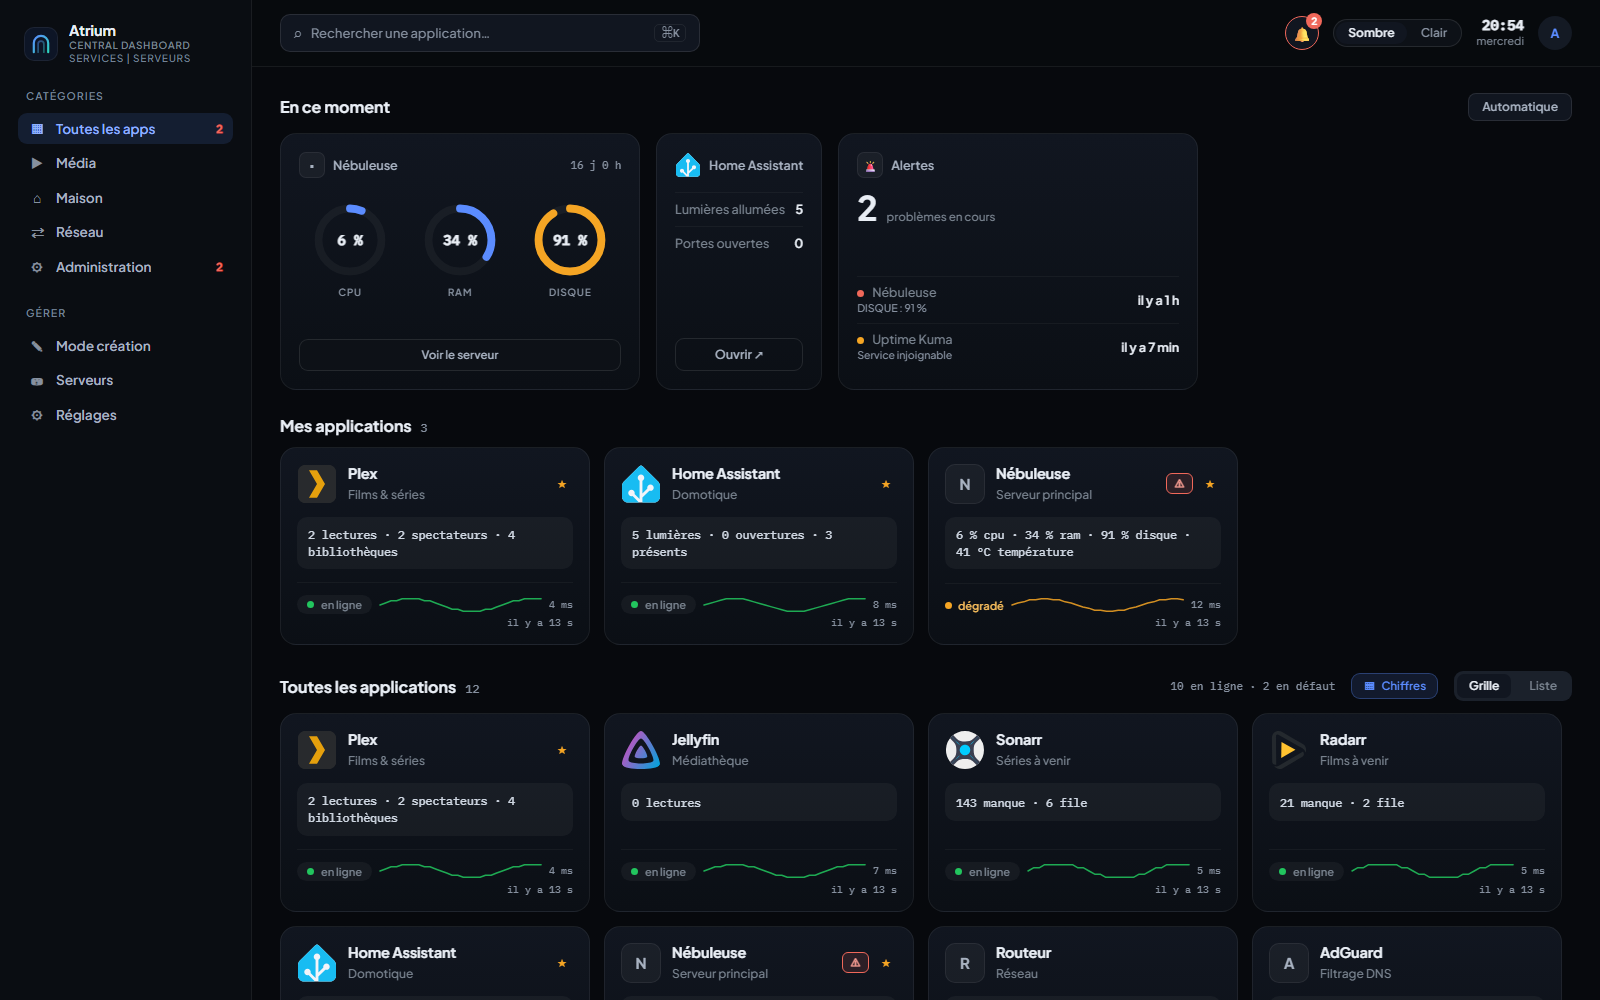
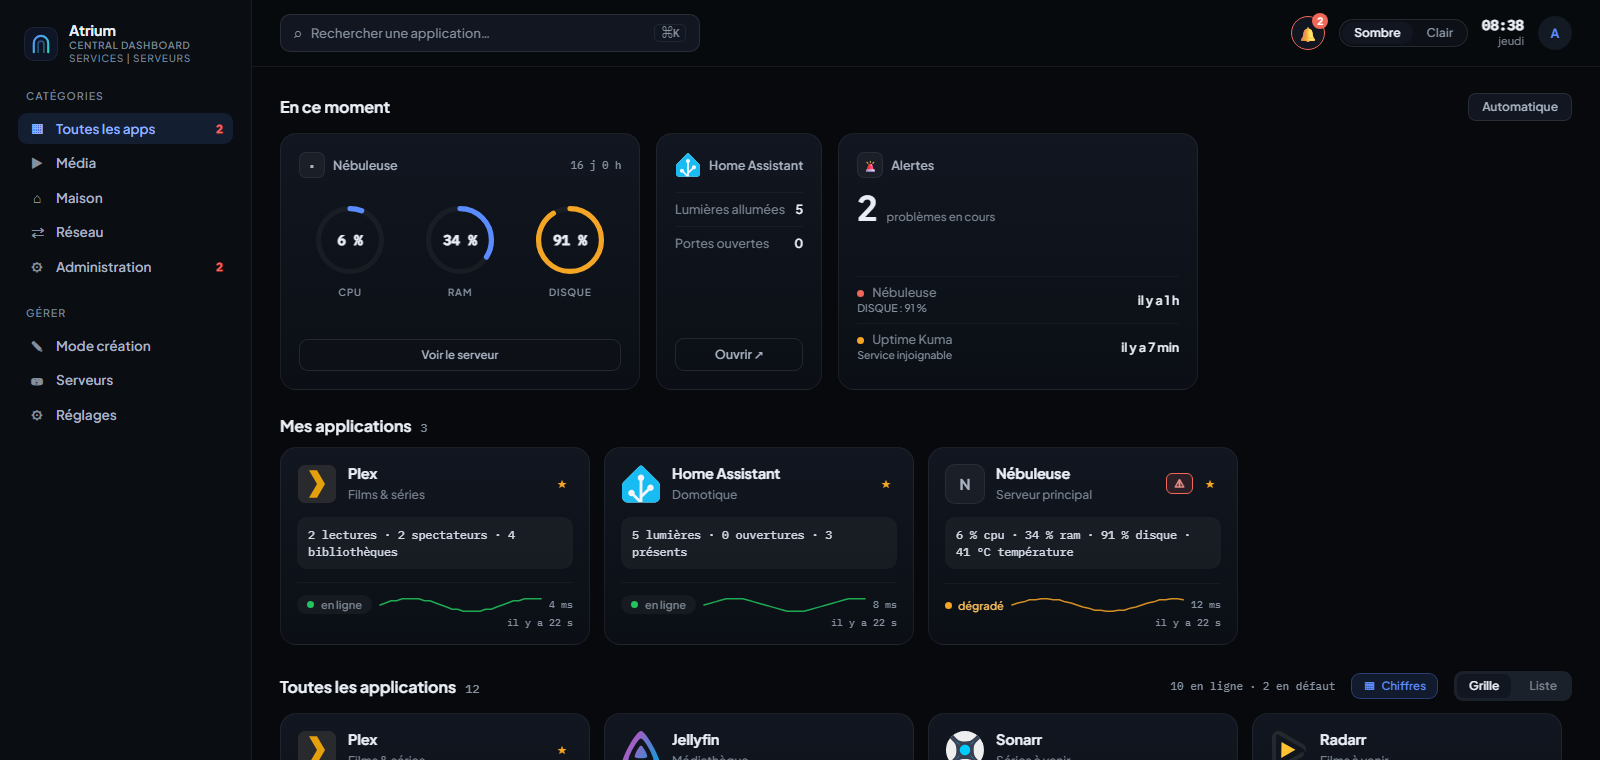
Lecture en cours : plus de doublon entre sources, anneaux affinés
Une même lecture apparaissait deux fois : Plex la rapporte comme session,
Home Assistant comme lecteur de la pièce. Les clés ne pouvaient pas coïncider
— HA titre « S1 · E2: Le calamar géant » là où Plex titre « Le calamar géant »,
et l'app_name diffère — donc la déduplication par clé exacte les laissait
passer toutes les deux.

On compare maintenant ce qui ne dépend pas de la source : le titre à
l'inclusion près, la durée, et l'endroit où en est la lecture. Uniquement entre
deux sources différentes : deux personnes devant le même épisode sur deux
téléviseurs restent deux lectures. La plus riche est gardée (Plex, qui a la
position et l'affiche) et reprend à l'autre ce qui lui manque.

Au passage, la clé Plex portait le seul titre : deux sessions du même épisode
se dévoraient l'une l'autre. Elle porte désormais le lecteur et le spectateur.

« Aussi en cours » était écrit en dur dans la feuille de style, donc jamais
traduit — la clé now.also existait sans emploi. C'est un élément à part
maintenant, masqué quand il n'y a rien à annoncer.

Les anneaux passent de 6 à 4 unités de viewBox, soit 5,2 px au lieu de 7,9 pour
48 de diamètre : le trait se lit sans peser autant que le chiffre qu'il entoure.

diff --git a/app/static/index.html b/app/static/index.html
@@ -239,8 +239,10 @@ summary:focus-visible,[tabindex]:focus-visible{
 .cock-anneaux:empty{display:none}
 .anneau{display:flex;flex-direction:column;align-items:center;gap:9px}
 .anneau svg{width:76px;height:76px;transform:rotate(-90deg)}
-.anneau .piste{fill:none;stroke:var(--divider);stroke-width:6}
-.anneau .arc{fill:none;stroke:var(--accent);stroke-width:6;stroke-linecap:round;
+/* Quatre unites de viewBox pour quarante-huit de diametre : le trait se lit
+   sans peser autant que le chiffre qu'il entoure. */
+.anneau .piste{fill:none;stroke:var(--divider);stroke-width:4}
+.anneau .arc{fill:none;stroke:var(--accent);stroke-width:4;stroke-linecap:round;
              transition:stroke-dashoffset .5s cubic-bezier(.4,0,.2,1)}
 .anneau.s2 .arc{stroke:var(--warn)}
 .anneau.s3 .arc{stroke:var(--warn)}
@@ -401,9 +403,12 @@ a.card:hover{box-shadow:var(--sh-hover);border-color:var(--accent-border);transf
 .badge-live .dot{width:6px;height:6px;animation:pulse 2.4s ease-in-out infinite}
 .np-title{margin-top:12px;font:700 20px/1.25 'Plus Jakarta Sans',sans-serif;letter-spacing:-.01em;overflow:hidden;text-overflow:ellipsis;white-space:nowrap}
 .np-sub{margin-top:5px;font:500 12.5px/1.5 'Plus Jakarta Sans',sans-serif;color:var(--text-3)}
-.np-more{display:flex;flex-direction:column;gap:6px;margin-top:14px}
+.np-more{display:flex;flex-direction:column;gap:6px;margin-top:6px}
 .np-more:empty{display:none}
-.np-more::before{content:'Aussi en cours';font:600 10px/1 'Plus Jakarta Sans',sans-serif;letter-spacing:.1em;text-transform:uppercase;color:var(--muted-3);margin-bottom:2px}
+/* Le titre est un element a part : dans la feuille, il ne pouvait pas se
+   traduire, et l'anglais lisait « Aussi en cours ». */
+.np-more-t{margin-top:14px;font:600 10px/1 'Plus Jakarta Sans',sans-serif;
+           letter-spacing:.1em;text-transform:uppercase;color:var(--muted-3)}
 .np-mrow{display:flex;align-items:center;gap:9px;padding:7px 11px;border:1px solid var(--border);border-radius:9px;background:var(--surface-2);cursor:pointer;transition:border-color .15s}
 .np-mrow:hover{border-color:var(--accent-border)}
 .pchip{position:relative;width:26px;height:26px;border-radius:6px;overflow:hidden;flex:none;background:var(--subtle);border:1px solid var(--border);display:grid;place-items:center;font:700 10px/1 'Plus Jakarta Sans',sans-serif;color:var(--text-2)}
@@ -1460,6 +1465,7 @@ code{font:500 11px/1 'IBM Plex Mono',monospace;background:var(--subtle);padding:
                   <span class="btn-primary" id="np-config" data-i18n="now.connect">Connecter une source</span>
                 </div>
               </div>
+              <div class="np-more-t" id="np-more-t" hidden data-i18n="now.also">Aussi en cours</div>
               <div class="np-more" id="np-more"></div>
             </div>
           </a>
@@ -3037,6 +3043,29 @@ const fmtDur = (sec) => {
   return h ? h + ' h ' + String(m).padStart(2, '0') : m + ' min';
 };
 /* fusion multi-sources : Plex direct + lecteurs HA, la plus « riche » en premier, dédoublonnée */
+/* Ou en est une lecture, maintenant : la position relevee, avancee du temps
+   ecoule depuis le releve si ca joue encore. */
+const instantDe = (m) => (m.pos || 0)
+  + (m.etat === 'playing' && m.posAt ? (Date.now() - m.posAt) / 1000 : 0);
+
+/* Une meme lecture est souvent vue deux fois : Plex la rapporte comme session,
+   Home Assistant comme lecteur de la piece. Les cles ne peuvent pas coincider —
+   HA titre l'episode « S1 · E2: Le calamar geant » la ou Plex titre « Le
+   calamar geant » — alors on compare ce qui ne depend pas de la source : le
+   titre a l'inclusion pres, la duree, et l'endroit ou on en est.
+
+   Uniquement entre deux sources differentes : deux enfants qui regardent le
+   meme episode sur deux televiseurs sont deux lectures, et le resteront. */
+function memeLecture(a, b) {
+  if (a.src === b.src) return false;
+  const ta = normTxt(a.titre || '');
+  const tb = normTxt(b.titre || '');
+  const titre = !!ta && !!tb && (ta.includes(tb) || tb.includes(ta));
+  const duree = a.dur > 0 && b.dur > 0 && Math.abs(a.dur - b.dur) <= 5;
+  const endroit = Math.abs(instantDe(a) - instantDe(b)) <= 90;
+  return (duree && endroit) || (titre && (duree || endroit));
+}
+
 function combineMedias() {
   const score = (m) => (m.etat === 'playing' ? 10 : 0) + (m.dur ? 5 : 0) + (m.poster ? 1 : 0) + (m.src === 'direct' ? 2 : 0);
   const all = [...PLEX_MEDIAS, ...HA_MEDIAS].sort((a, b) => score(b) - score(a));
@@ -3047,6 +3076,16 @@ function combineMedias() {
     seen.add(m.key);
     return true;
   });
+  /* La liste est triee par richesse : la premiere rencontree est celle qui en
+     dit le plus, et on lui prend ce qui lui manque avant d'ecarter l'autre. */
+  const gardees = [];
+  MEDIAS.forEach((m) => {
+    const g = gardees.find((x) => memeLecture(x, m));
+    if (!g) { gardees.push(m); return; }
+    if (!g.poster && m.poster) g.poster = m.poster;
+    if (!g.dur && m.dur) { g.dur = m.dur; g.pos = m.pos; g.posAt = m.posAt; }
+  });
+  MEDIAS = gardees;
   /* lecture épinglée par clic : passe devant tant qu'elle existe */
   if (SELECTED_KEY) {
     const i = MEDIAS.findIndex((m) => m.key === SELECTED_KEY);
@@ -3147,6 +3186,7 @@ function renderLive() {
   $('np-foot').hidden = true;
   $('np-setup').hidden = true;
   $('np-more').textContent = '';
+  $('np-more-t').hidden = true;
   $('np-poster').querySelectorAll('img').forEach((i) => i.remove());
 
   if (MEDIA) {
@@ -3222,6 +3262,7 @@ function renderLive() {
       });
       $('np-more').appendChild(row);
     });
+    $('np-more-t').hidden = !$('np-more').children.length;
   } else {
     /* aucune lecture : état neutre, indépendant de toute intégration précise */
     const sourcesMedia = ['plex', 'jellyfin', 'ha'].filter((k) => {
@@ -5125,7 +5166,10 @@ async function pollDirect() {
           appLabel: 'Plex',
           entId: '',
           type: m.type === 'track' ? 'musique' : 'video',
-          key: normTxt((m.title || '') + '|plex|'),
+          /* Le lecteur et le spectateur font partie de la clé : deux personnes
+             devant le même épisode sur deux téléviseurs sont deux lectures. */
+          key: normTxt((m.title || '') + '|plex|' + (pl.title || '') + '|'
+                       + ((m.User && m.User.title) || '')),
           src: 'direct',
         };
       });
